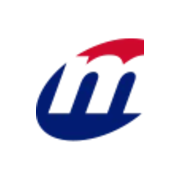
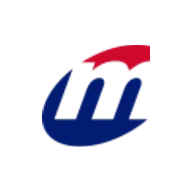
PWA: ícono iOS con margen extra amplio (v3) para que no se corte en ningún caso
apple-touch-icon-v3 con padding 0.28 (más margen que la ref imagen 2), nueva URL
para forzar descarga fresca. Íconos any/maskable también con más margen (0.22/0.28).

Changed region(s): [[0.1944, 0.1944, 0.8056, 0.8056], [0.5, 0.4722, 0.5278, 0.5556]]

diff --git a/index.html b/index.html
@@ -11,7 +11,7 @@
 <meta name="apple-mobile-web-app-capable" content="yes">
 <meta name="apple-mobile-web-app-status-bar-style" content="black-translucent">
 <meta name="apple-mobile-web-app-title" content="Mateu">
-<link rel="apple-touch-icon" href="icons/apple-touch-icon-v2.png">
+<link rel="apple-touch-icon" href="icons/apple-touch-icon-v3.png">
 <link rel="icon" type="image/png" sizes="192x192" href="icons/icon-192.png">
 <link href="https://fonts.googleapis.com/css2?family=Bebas+Neue&family=Barlow+Condensed:wght@400;500;600;700&family=Barlow:wght@300;400;500;600&display=swap" rel="stylesheet">
 <link rel="stylesheet" href="shared/components/calendario-retail/calendario.css">
